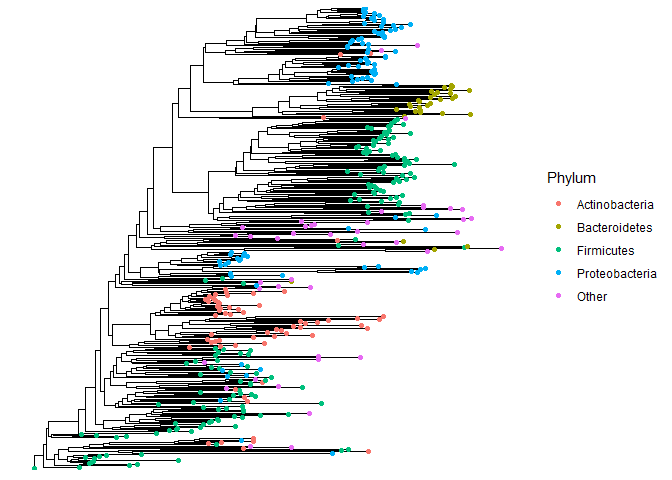
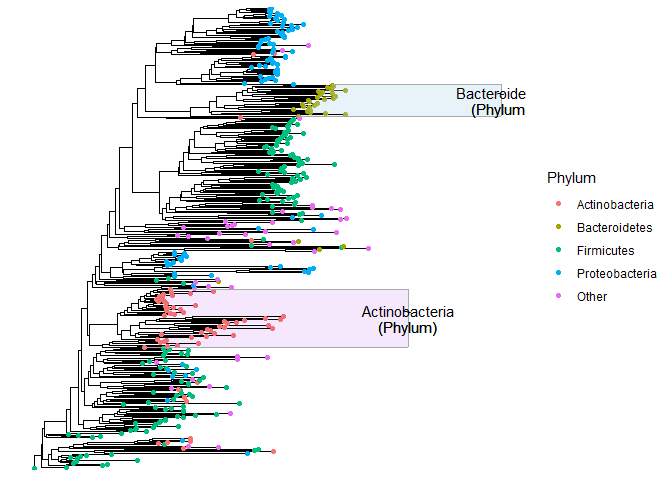
added markdown material

Changed region(s): [[0.0625, 0.0, 0.7812, 1.0]]

diff --git a/examples/taxbar.md b/examples/taxbar.md
@@ -1,0 +1,44 @@
+Tax Barplot
+================
+
+Here we will create a barplot for a composition of a single sample.
+
+``` r
+library(tidyverse)
+library(yingtools2)
+library(phyloseq)
+```
+
+Let’s say I want to plot patient 301 from the `cid.phy` data. Start by
+subsetting the `cid.phy` object. Whenever you subset, you may want to
+prune off the unused taxa (i.e. taxa that don’t appear in the subsetted
+data).
+
+``` r
+physub <- cid.phy %>% prune_samples("173A",.) %>% 
+  phy.collapse(taxranks="Genus") %>%
+  prune_taxa(taxa_sums(.)>0,.)
+otusub <- get.otu.melt(physub)
+```
+
+Now plot a bar for each Genus level:
+
+``` r
+ggplot(otusub,aes(x=Genus,y=pctseqs)) + geom_col()
+```
+
+![](taxbar_files/figure-gfm/unnamed-chunk-3-1.png)<!-- -->
+
+Great, now perform a few adjustments: (a) Log transform the Y-axis so
+that low abundances are visible (I use `log_epsilon_trans`), (b) divide
+into to facets to show phylum level, (b) expand the plot to include
+relative abundance of 100%, (c) rotate and left-justify the X-axis
+labels.
+
+``` r
+ggplot(otusub,aes(x=Genus,y=pctseqs)) + geom_col(fill="steelblue",color="black") + 
+  scale_y_continuous(trans=log_epsilon_trans(0.001),limits=c(0,1)) +
+  theme(axis.text.x=element_text(angle=-90,hjust=0))
+```
+
+![](taxbar_files/figure-gfm/unnamed-chunk-4-1.png)<!-- -->

diff --git a/examples/phylotree.md b/examples/phylotree.md
@@ -91,8 +91,9 @@ gt + geom_point(aes(color=Phylum))
 
 ![](phylotree_files/figure-gfm/unnamed-chunk-6-1.png)<!-- -->
 
-Because I only want to plot the tips, I can use `geom_point2`, which
-simply allows subsetting of the data in a convenient way.
+…but because we only want the tips to be labelled (not the nodes), use
+`geom_point2`, which simply allows subsetting of the data in a
+convenient way.
 
 ``` r
 gt + geom_point2(aes(subset=isTip,color=Phylum))
@@ -115,9 +116,14 @@ gt + geom_point2(data=gd,aes(subset=isTip,color=Phylum))
 
 ![](phylotree_files/figure-gfm/unnamed-chunk-8-1.png)<!-- -->
 
+Use `hilight.clade()` to add layers representing clades, using the
+ggtree data. There are a lot parameters you can tweak to customize exact
+how you want it to look.
+
 ``` r
-otu <- phy.genus %>% get.otu.melt(filter.zero=TRUE)
-gt + geom_point2(data=gd,aes(subset=isTip,color=Phylum))
+gt + geom_point2(data=gd,aes(subset=isTip,color=Phylum)) +
+  hilight.clade(gt,Phylum,"Actinobacteria",ymin=101,ymax=155,fill.color="purple",alpha=0.1) +
+  hilight.clade(gd,Phylum,"Bacteroidetes",ymin=300,ymax=328,fill.color="light blue",alpha=0.3)
 ```
 
 ![](phylotree_files/figure-gfm/unnamed-chunk-9-1.png)<!-- -->
